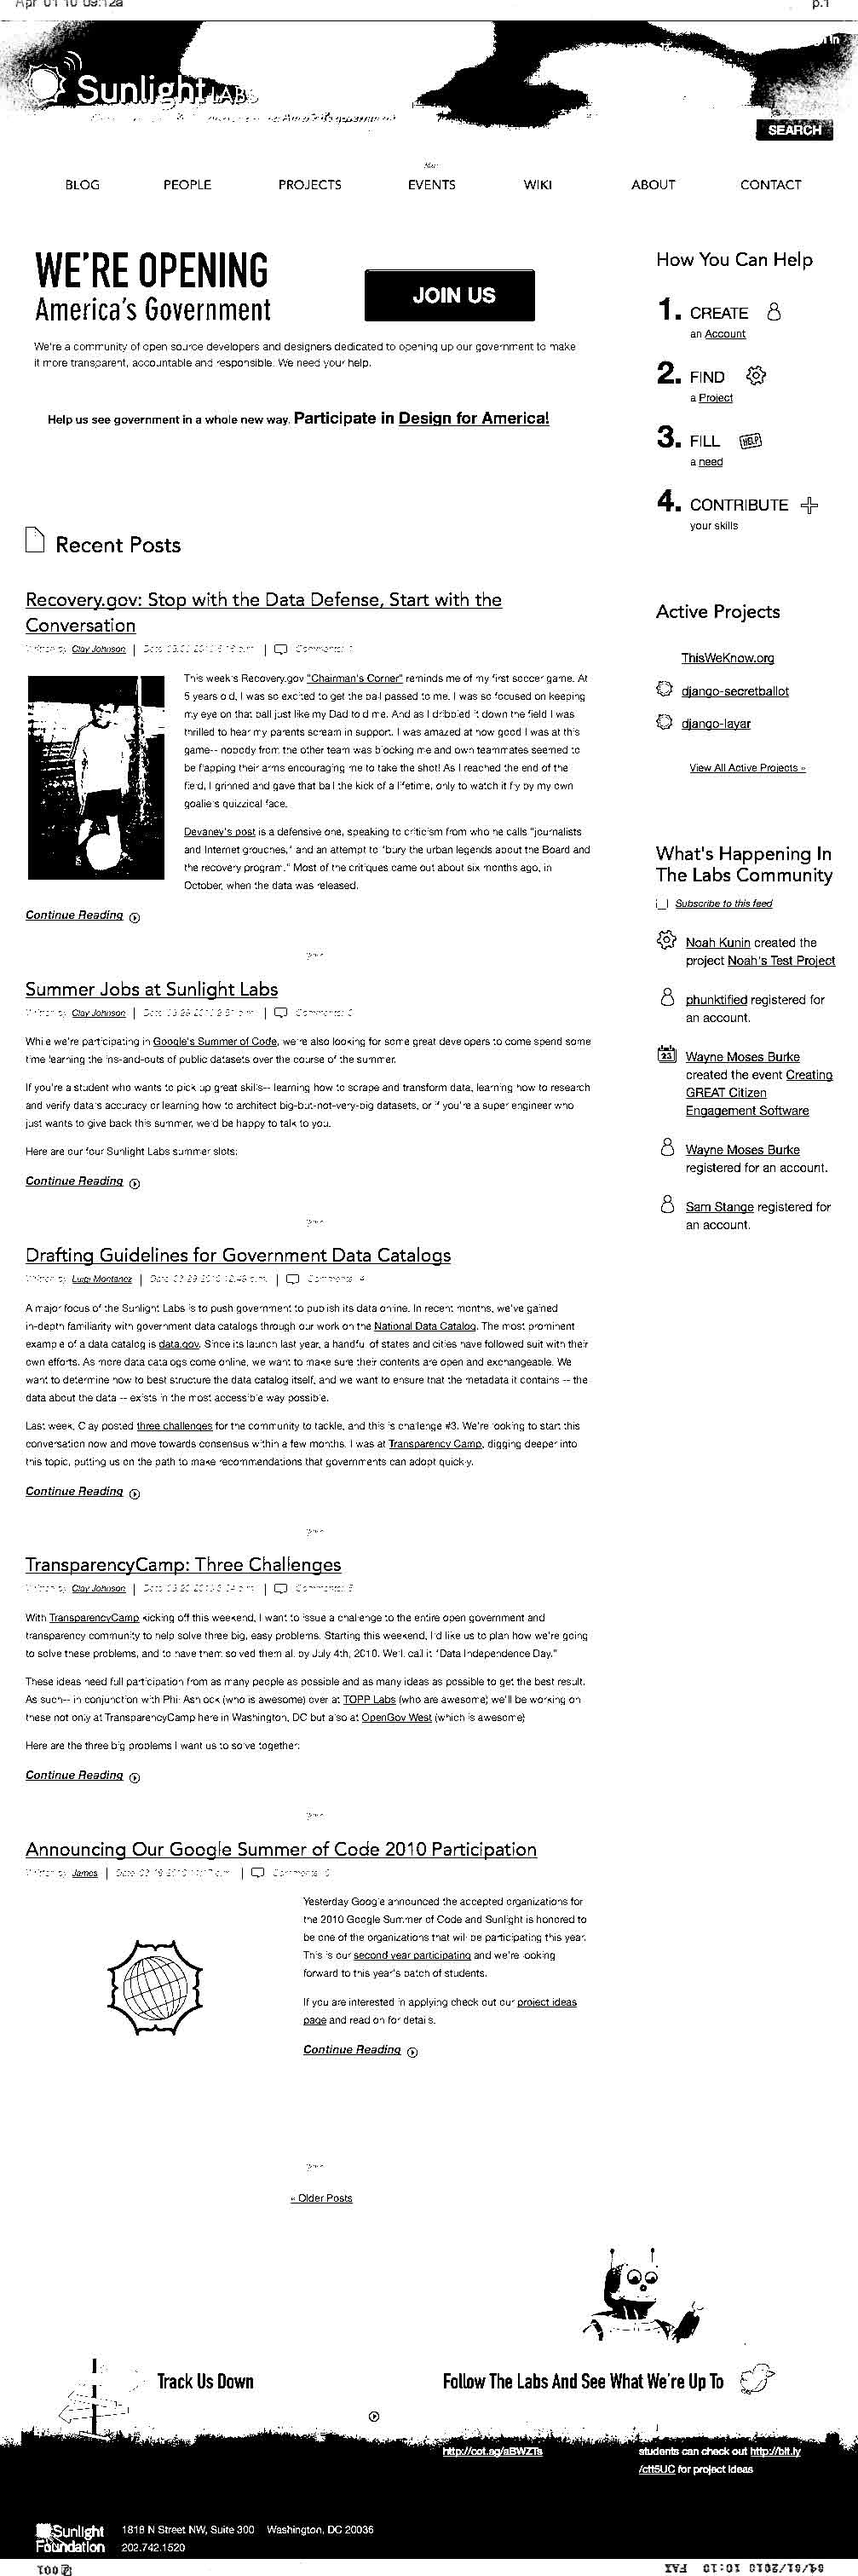
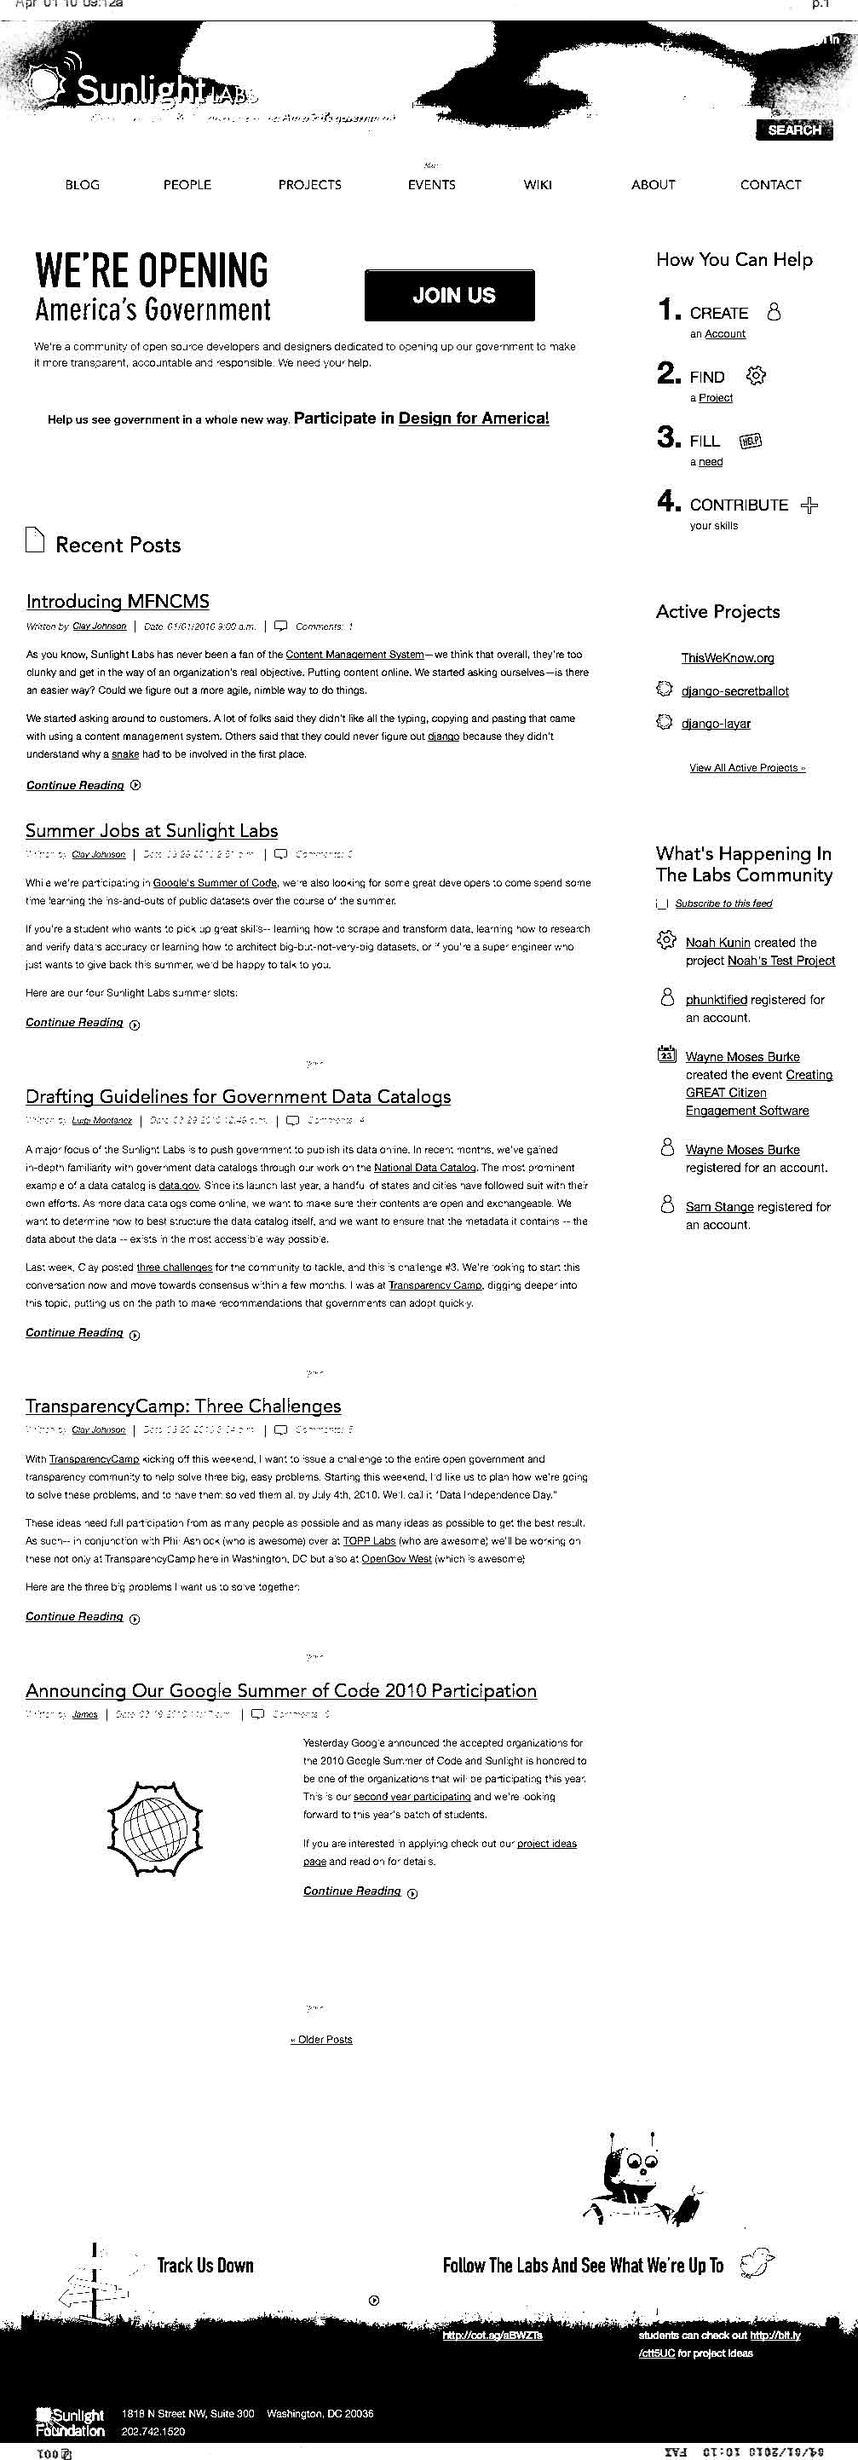
mfncms

diff --git a/templates/labs/april1post.html b/templates/labs/april1post.html
@@ -3,7 +3,7 @@
 <head>
 </head>
 <body>
-    <a href="/mfncms/"><img style="border: 0px;" src="{{MEDIA_URL}}images/sunlightlabs_scan.jpg" /></a>
+    <a href="/blog/2010/introducing-mfncms/"><img style="border: 0px;" src="{{MEDIA_URL}}images/aprilFools_blog.jpg" /></a>
 
         <!-- analytics scripts -->
         <script type="text/javascript">
